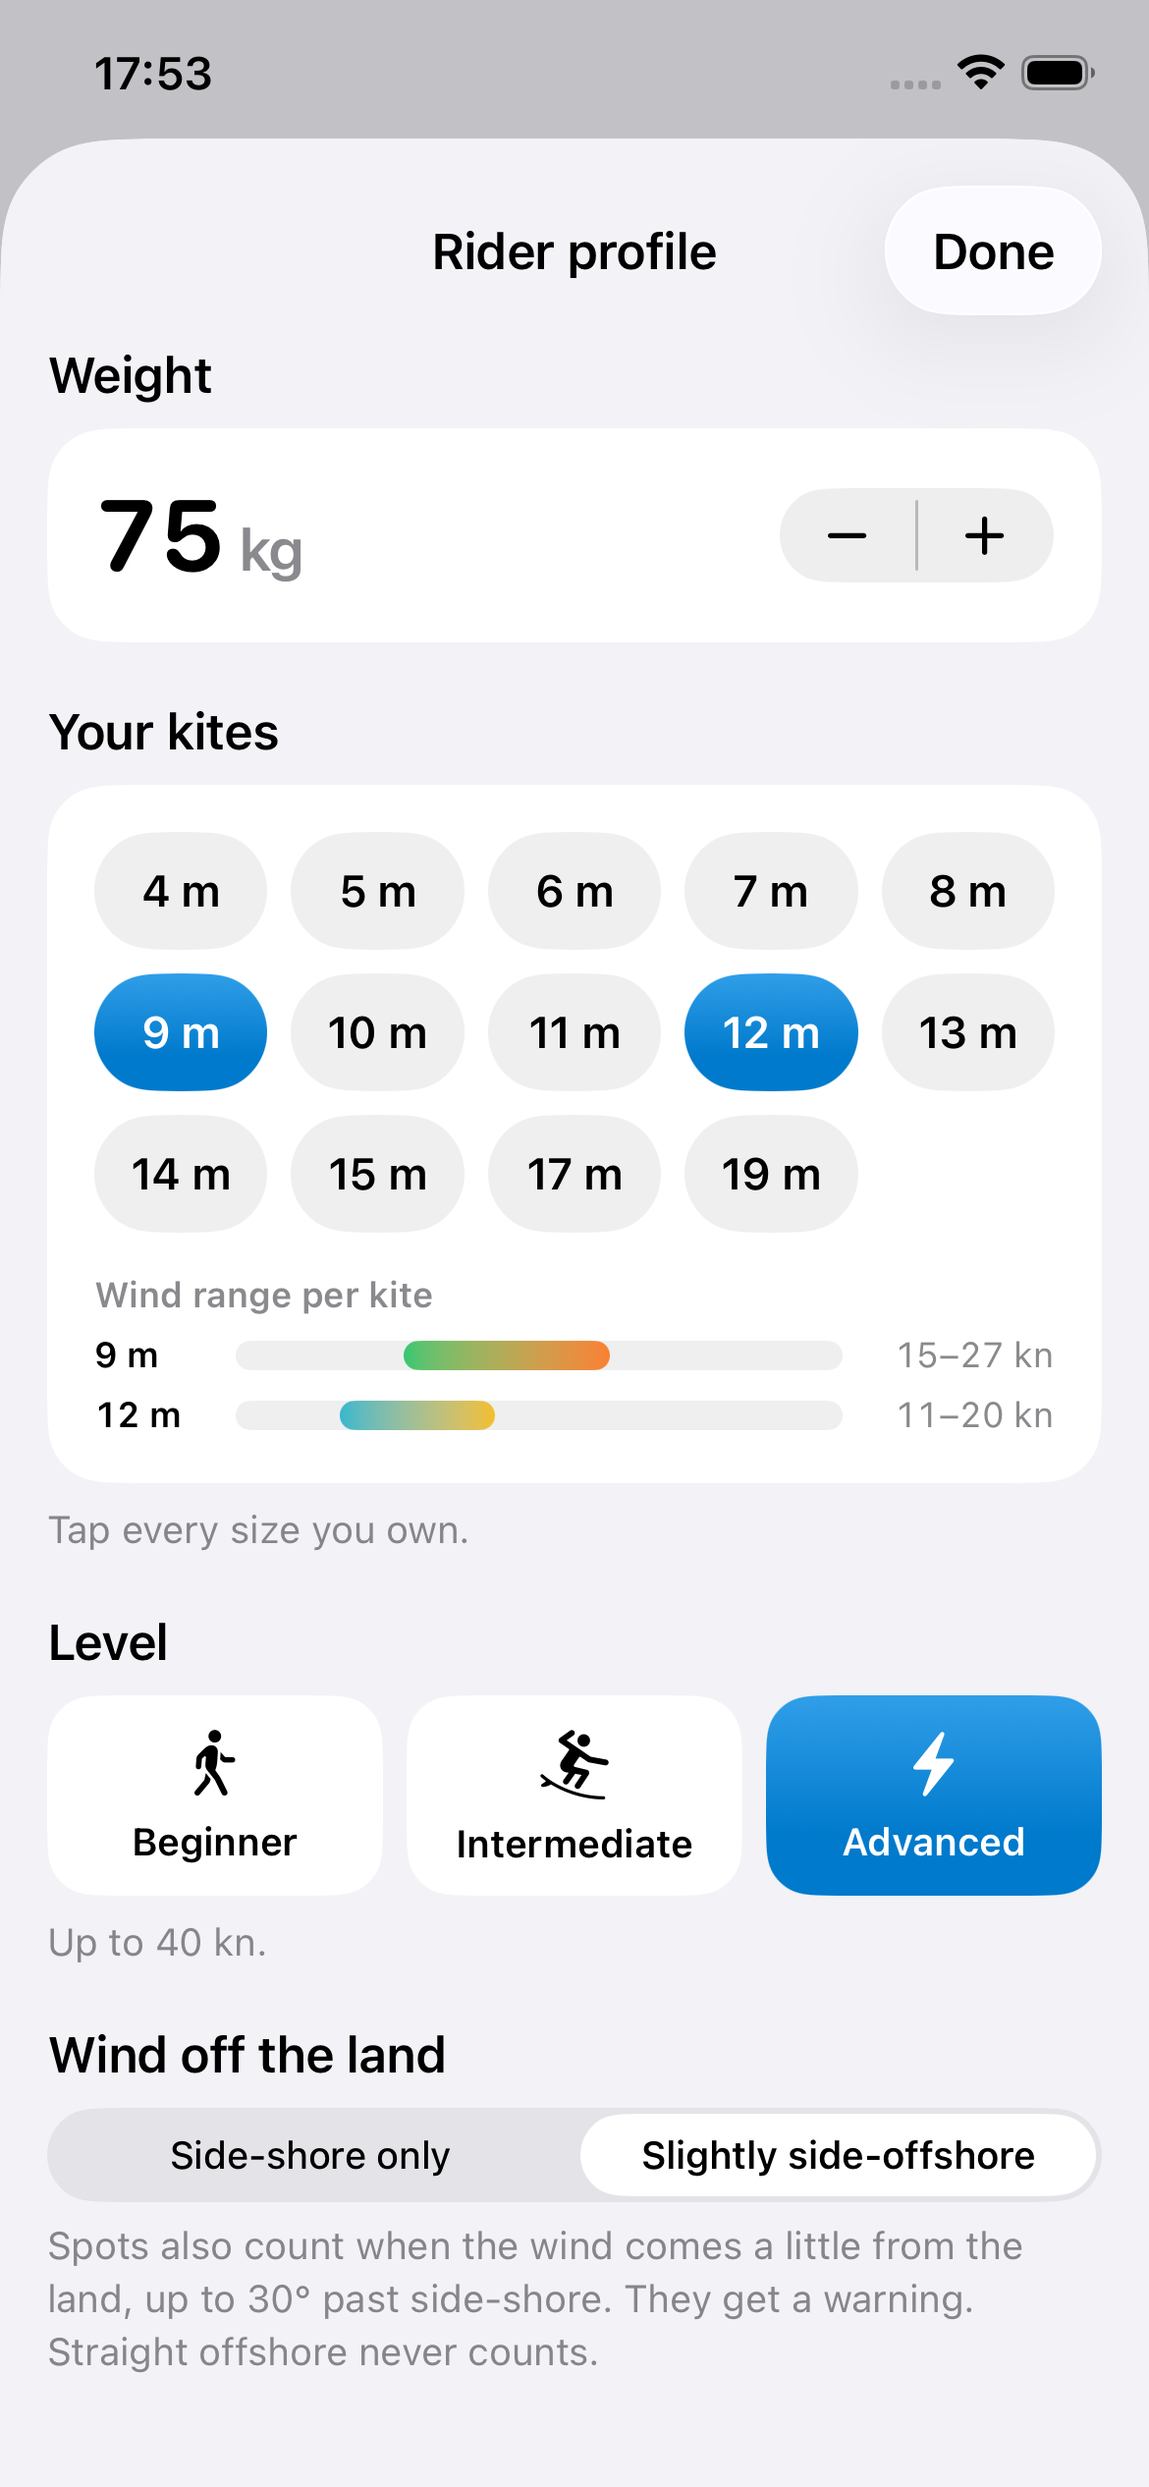
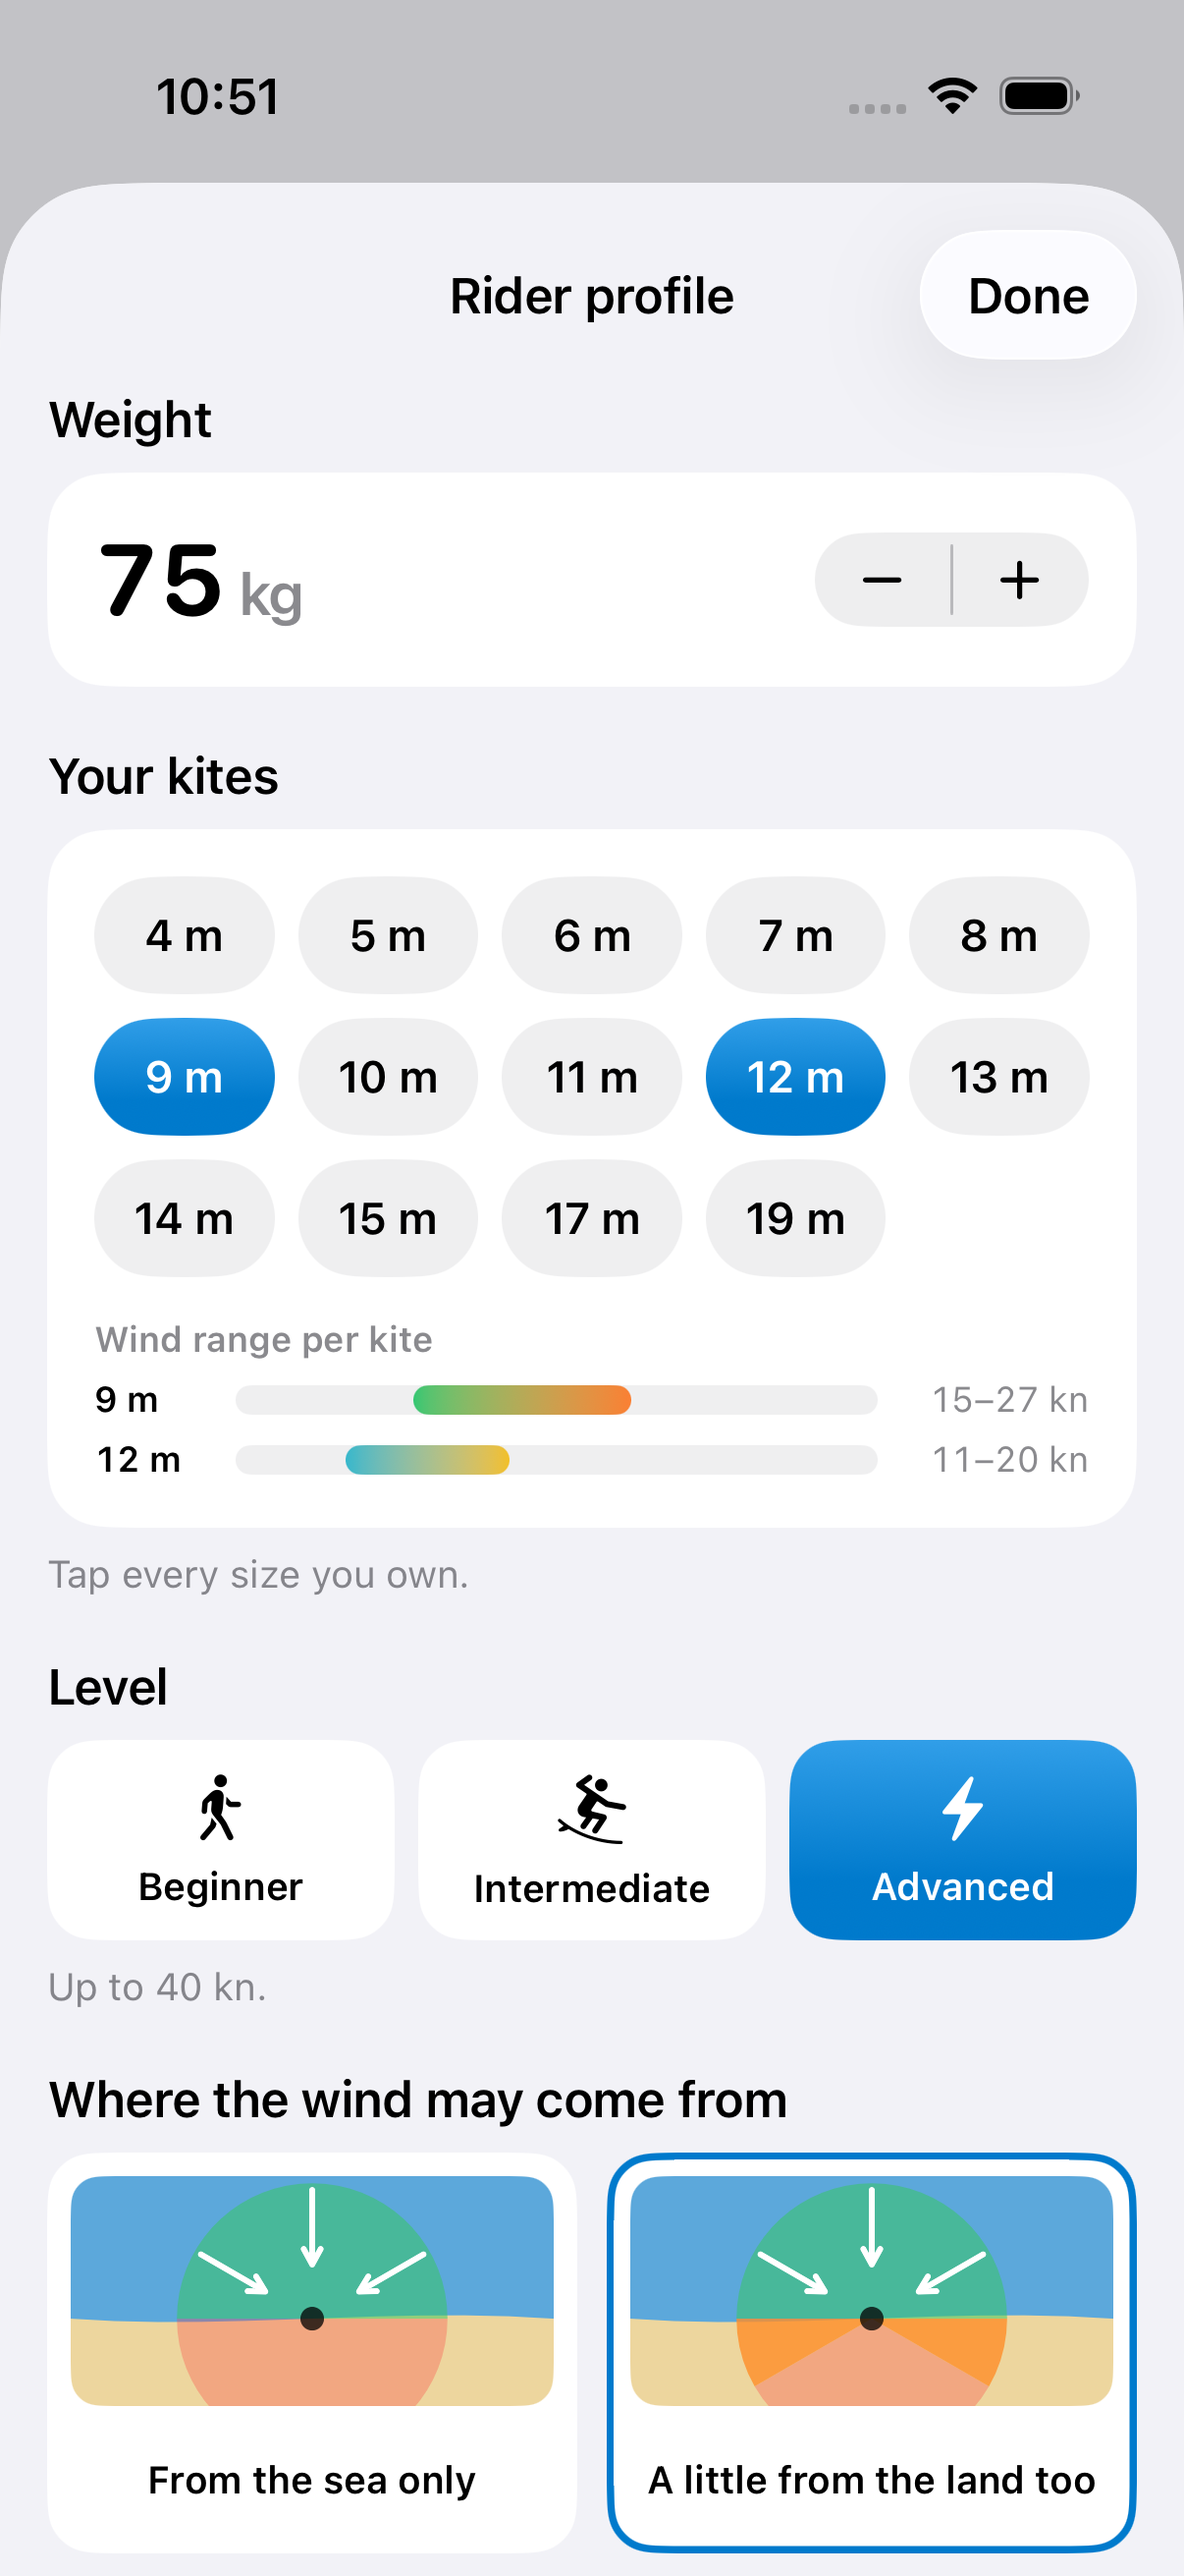
Offshore choice: two picture cards in plain words instead of angles

diff --git a/App/WhereToKite/Views/ProfileView.swift b/App/WhereToKite/Views/ProfileView.swift
@@ -343,13 +343,11 @@ struct ProfileFields: View {
             }
 
             if OffshoreTolerance.choices(for: profile.level).count > 1 {
-                section(String(localized: "Wind off the land"), footer: offshoreFooter) {
-                    Picker(String(localized: "Wind off the land"), selection: $profile.offshoreTolerance) {
-                        Text("Side-shore only").tag(OffshoreTolerance.sideShoreOnly)
-                        Text("Slightly side-offshore").tag(OffshoreTolerance.sideOffshore)
+                section(String(localized: "Where the wind may come from"), footer: offshoreFooter) {
+                    HStack(spacing: 10) {
+                        offshoreCard(.sideShoreOnly, title: String(localized: "From the sea only"))
+                        offshoreCard(.sideOffshore, title: String(localized: "A little from the land too"))
                     }
-                    .pickerStyle(.segmented)
-                    .accessibilityIdentifier("offshorePicker")
                 }
             }
         }
@@ -407,12 +405,105 @@ struct ProfileFields: View {
     }
 
     private var offshoreFooter: String {
-        if profile.offshoreTolerance == .sideShoreOnly {
-            return String(localized: "Spots count only when the wind blows along the beach or onto it.")
+        profile.offshoreTolerance == .sideShoreOnly
+            ? String(localized: "Spots count only when the wind blows onto the beach or along it.")
+            : String(localized: "Spots also count when the wind comes a little from the land. That wind is gustier and pushes you out, so they get a warning. Wind straight from the land never counts.")
+    }
+
+    /// One choice, drawn: sea on top, beach below, the fan shows where the wind may come from.
+    private func offshoreCard(_ choice: OffshoreTolerance, title: String) -> some View {
+        let on = profile.offshoreTolerance == choice
+        let reachDeg = choice == .sideOffshore ? (ScoringRules().sideOffshoreLimitDeg(profile.level) ?? 90) : 90
+        return Button {
+            withAnimation(.snappy) { profile.offshoreTolerance = choice }
+        } label: {
+            VStack(spacing: 8) {
+                WindFanDrawing(reachDeg: reachDeg)
+                    .frame(height: 78)
+                    .clipShape(RoundedRectangle(cornerRadius: 10, style: .continuous))
+                    .accessibilityHidden(true)
+                Text(title)
+                    .font(.footnote.weight(.semibold))
+                    .multilineTextAlignment(.center)
+                    .lineLimit(2)
+                    .minimumScaleFactor(0.85)
+                    .frame(maxWidth: .infinity, minHeight: 34)
+            }
+            .padding(8)
+            .foregroundStyle(Color.primary)
+            .background {
+                RoundedRectangle(cornerRadius: 16, style: .continuous)
+                    .fill(Color(.secondarySystemGroupedBackground))
+            }
+            .overlay {
+                RoundedRectangle(cornerRadius: 16, style: .continuous)
+                    .strokeBorder(on ? Color.accentColor : Color.clear, lineWidth: 2.5)
+            }
         }
-        return profile.level == .advanced
-            ? String(localized: "Spots also count when the wind comes a little from the land, up to 30° past side-shore. They get a warning. Straight offshore never counts.")
-            : String(localized: "Spots also count when the wind comes a little from the land, up to 20° past side-shore. They get a warning. Straight offshore never counts.")
+        .buttonStyle(.plain)
+        .accessibilityLabel(title)
+        .accessibilityIdentifier("offshore-\(choice.rawValue)")
+        .accessibilityAddTraits(on ? .isSelected : [])
+        .sensoryFeedback(.selection, trigger: on)
+    }
+}
+
+/// Top-down beach: sea above, sand below, rider on the shoreline. Green covers the directions the
+/// wind may blow from (onto the beach or along it); past along-the-beach the extra slice over the
+/// land is orange (flagged). The rest of the land side is red: wind straight from land never counts.
+private struct WindFanDrawing: View {
+    /// Widest accepted angle from straight onshore, degrees (90 = along the beach).
+    let reachDeg: Double
+
+    var body: some View {
+        Canvas { ctx, size in
+            let w = size.width, h = size.height
+            let shoreY = h * 0.62
+            ctx.fill(Path(CGRect(origin: .zero, size: size)), with: .color(Color(red: 0.93, green: 0.84, blue: 0.62)))
+            var sea = Path()
+            sea.move(to: .zero)
+            sea.addLine(to: CGPoint(x: w, y: 0))
+            sea.addLine(to: CGPoint(x: w, y: shoreY))
+            sea.addCurve(to: CGPoint(x: 0, y: shoreY),
+                         control1: CGPoint(x: w * 0.66, y: shoreY - 4), control2: CGPoint(x: w * 0.33, y: shoreY + 4))
+            sea.closeSubpath()
+            ctx.fill(sea, with: .color(Color(red: 0.36, green: 0.66, blue: 0.86)))
+
+            let c = CGPoint(x: w / 2, y: shoreY)
+            let r = min(w / 2, shoreY) * 0.95
+            // Degrees from straight onshore (up), clockwise → point on screen.
+            func pt(_ deg: Double, _ radius: CGFloat) -> CGPoint {
+                let a = (deg - 90) * .pi / 180
+                return CGPoint(x: c.x + radius * cos(a), y: c.y + radius * sin(a))
+            }
+            func fan(_ from: Double, _ to: Double) -> Path {
+                var p = Path()
+                p.move(to: c)
+                p.addArc(center: c, radius: r, startAngle: .degrees(from - 90), endAngle: .degrees(to - 90), clockwise: false)
+                p.closeSubpath()
+                return p
+            }
+            ctx.fill(fan(reachDeg, 360 - reachDeg), with: .color(.red.opacity(0.3)))
+            ctx.fill(fan(-90, 90), with: .color(.green.opacity(0.5)))
+            if reachDeg > 90 {
+                ctx.fill(fan(90, reachDeg), with: .color(.orange.opacity(0.8)))
+                ctx.fill(fan(-reachDeg, -90), with: .color(.orange.opacity(0.8)))
+            }
+            // Wind arrows blowing toward the rider.
+            for deg in [-60.0, 0, 60] {
+                let tail = pt(deg, r * 0.95), head = pt(deg, r * 0.4)
+                var a = Path()
+                a.move(to: tail)
+                a.addLine(to: head)
+                let dir = atan2(head.y - tail.y, head.x - tail.x)
+                for s in [-1.0, 1.0] {
+                    a.move(to: head)
+                    a.addLine(to: CGPoint(x: head.x - 6 * cos(dir + s * 0.5), y: head.y - 6 * sin(dir + s * 0.5)))
+                }
+                ctx.stroke(a, with: .color(.white), style: StrokeStyle(lineWidth: 2, lineCap: .round, lineJoin: .round))
+            }
+            ctx.fill(Path(ellipseIn: CGRect(x: c.x - 4, y: c.y - 4, width: 8, height: 8)), with: .color(.black.opacity(0.75)))
+        }
     }
 }
 

diff --git a/App/WhereToKiteUITests/SmokeTests.swift b/App/WhereToKiteUITests/SmokeTests.swift
@@ -133,14 +133,14 @@ final class SmokeTests: XCTestCase {
         XCTAssertTrue(app.navigationBars["Rider profile"].waitForExistence(timeout: 3))
         app.swipeUp()
 
-        let sideShore = app.buttons["Side-shore only"]
-        let sideOff = app.buttons["Slightly side-offshore"]
+        let sideShore = app.buttons["offshore-sideShoreOnly"]
+        let sideOff = app.buttons["offshore-sideOffshore"]
         // Starter profile: intermediate, side-shore only.
         XCTAssertTrue(sideShore.waitForExistence(timeout: 3))
         XCTAssertTrue(sideShore.isSelected)
         sideOff.tap()
         XCTAssertTrue(sideOff.isSelected)
-        XCTAssertTrue(app.staticTexts.containing(NSPredicate(format: "label CONTAINS '20° past side-shore'")).firstMatch.exists)
+        XCTAssertTrue(app.staticTexts.containing(NSPredicate(format: "label CONTAINS 'a little from the land'")).firstMatch.exists)
         snapshot(app, "offshore-intermediate")
 
         app.buttons["Beginner"].tap()
